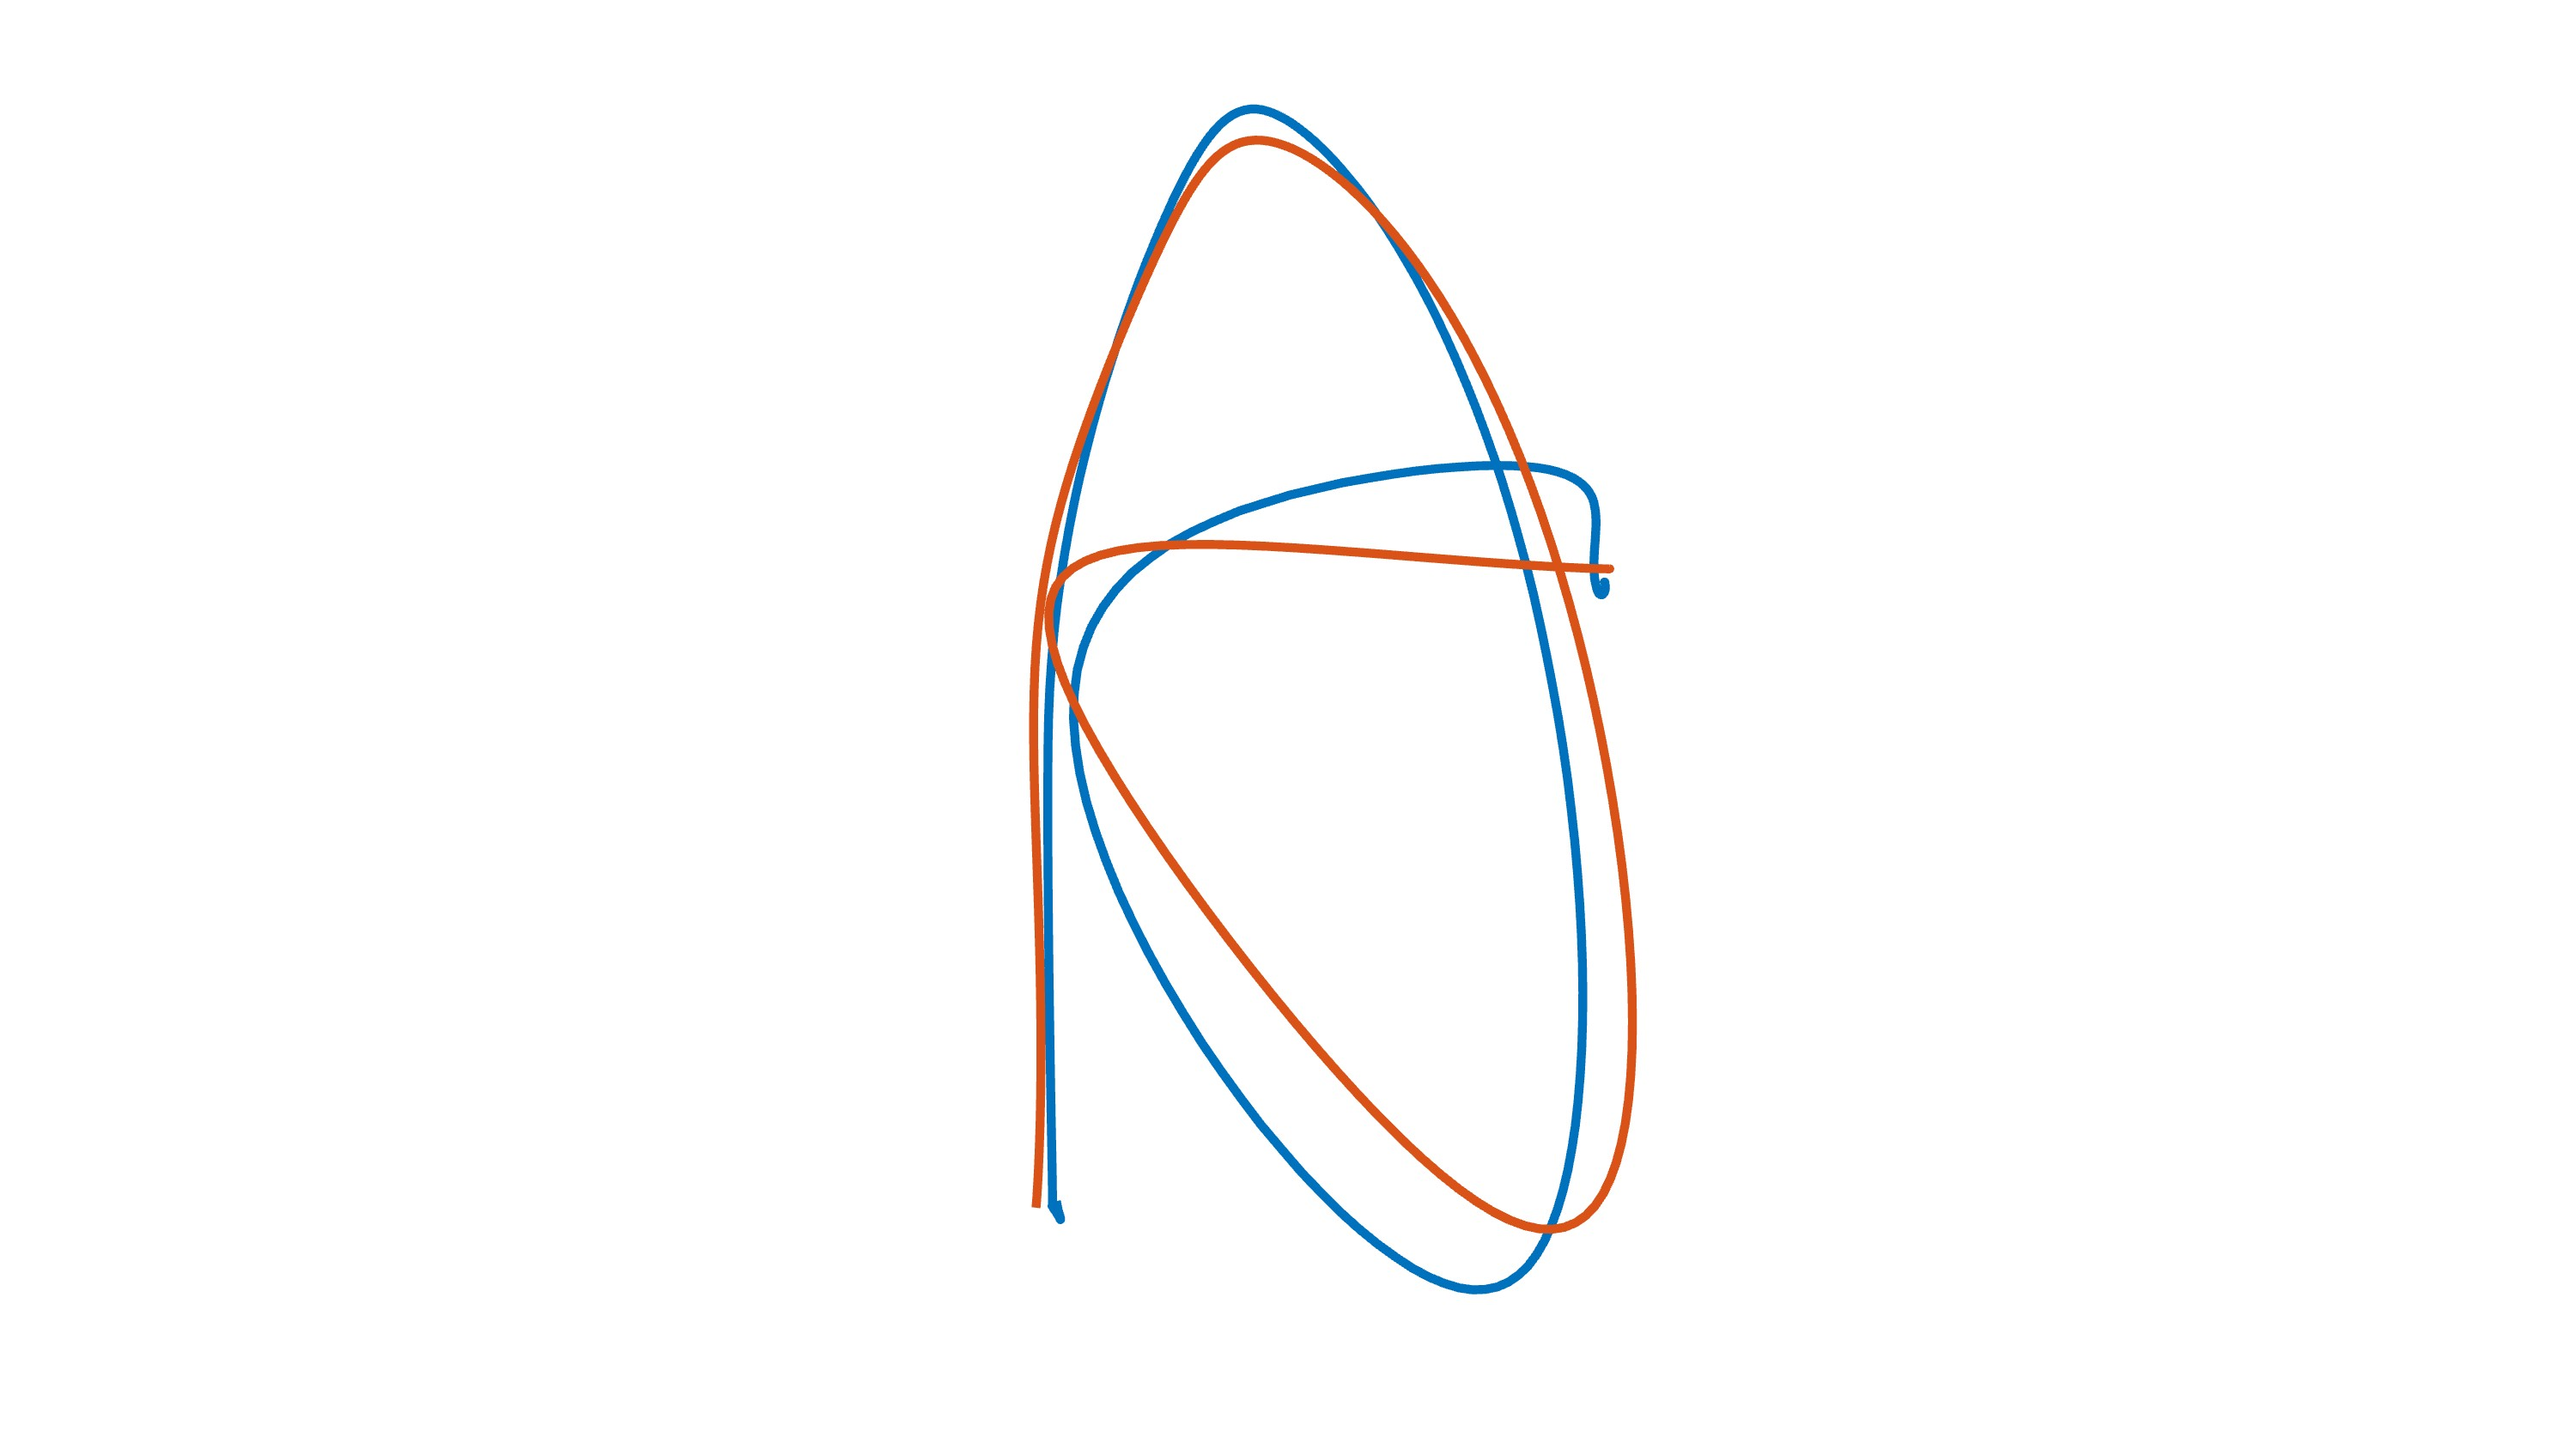
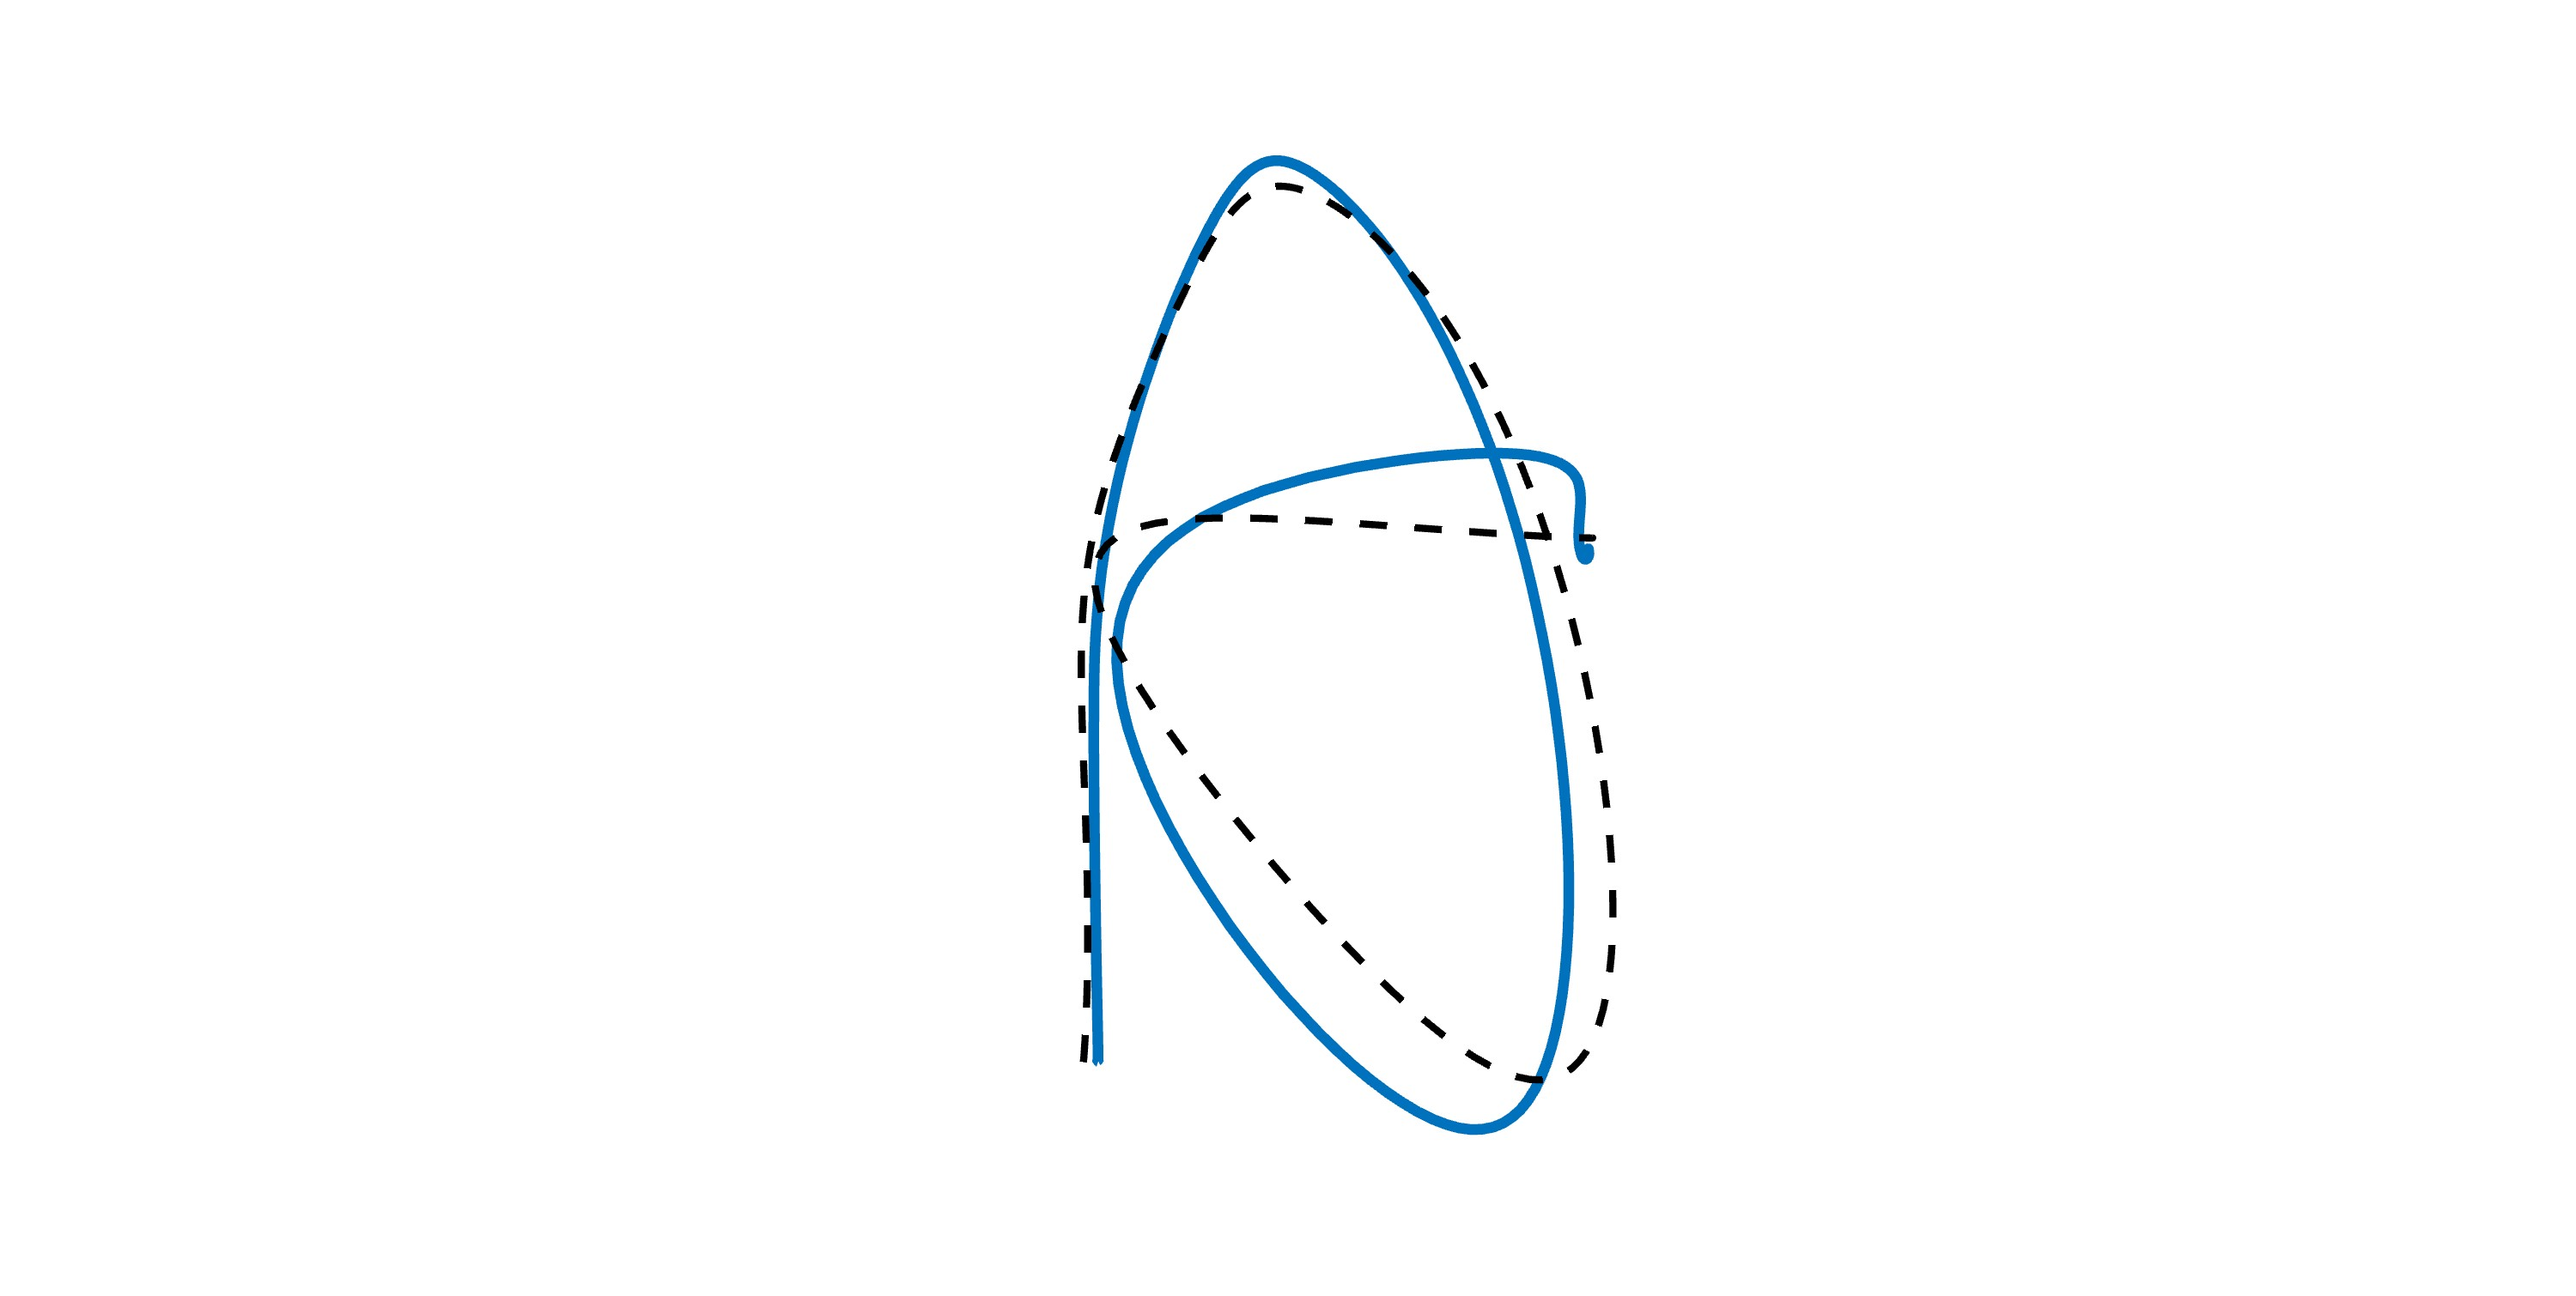
update

Changed region(s): [[0.372, 0.0623, 0.651, 0.9026]]

diff --git a/MATLABscripts/plot_results.m b/MATLABscripts/plot_results.m
@@ -5,7 +5,7 @@ clear; close all; clc;
 fig_config( 'fontSize', 20, 'markerSize', 10 )
 
 % Get the data
-raw_data = parse_txt( 'data_plot/Kp600_letterA_0p5.txt',0 );
+raw_data = parse_txt( 'data_plot/Kp1200_letterA_1p0.txt',0 );
 
 % Set figure size and attach robot to simulation
 robot = iiwa14( 'high' );
@@ -22,12 +22,16 @@ for i = 1 : Nt
     tmp = robot.getForwardKinematics( q_arr( :, i ) );
     p_arr( :, i ) = tmp( 1:3, 4 );
 end
+
+idx_start = 60;
  
 f = figure( ); a = axes( 'parent', f );
-plot( a, p_arr( 2, : ), p_arr( 3, : ))
+plot( a, p_arr( 2, idx_start:end ), p_arr( 3, idx_start:end ), 'linewidth', 6 )
 hold on
-plot( a, p0_arr( 2, : ), p0_arr( 3, : ))
+plot( a, p0_arr( 2, idx_start:end ), p0_arr( 3, idx_start:end ), 'linestyle','--', 'color', 'k', 'linewidth', 4 )
 axis equal
-set( a, 'visible', 'off' )
+set( a, 'visible', 'off' , 'xlim', [-0.1, 0.3], 'ylim', [0.15, 0.55])
 
-saveas( gcf, 'images/Kp600_A_0p5.jpeg')
+rmse( p_arr, p0_arr, "all" )
+
+saveas( gcf, 'images/Kp1200_A_1p0.jpeg')
